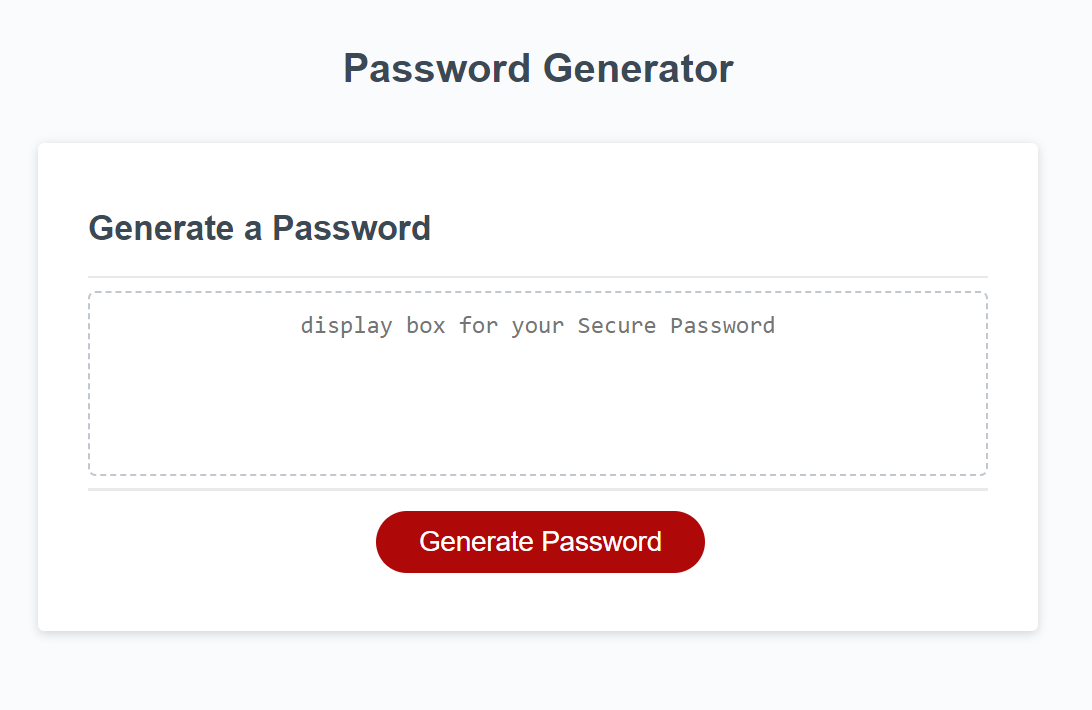
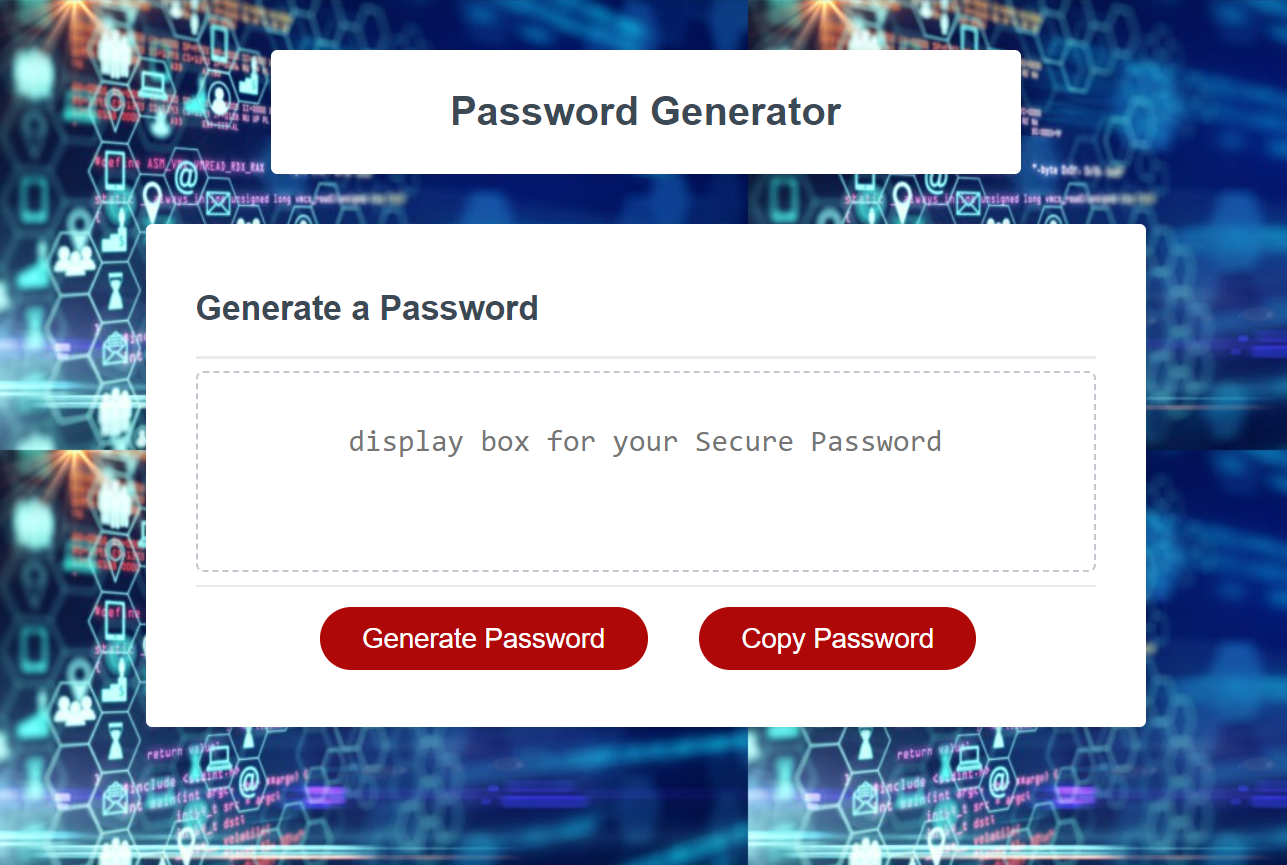
update ReadMe with copy feature, update app screenshot

diff --git a/README.md b/README.md
@@ -1,11 +1,12 @@
-# Module 3 Challenge: Password generator
+# Module 3 Challenge: Password Generator
 
 ## Overview:
 * Developer: Donna Thompson
-* Challenge type: Refactoring starter code for a Password Generator
+* Challenge type: Enhancing starter code for a Password Generator
 * The Password Generator enables users to generate random passwords based on criteria that they’ve selected. 
-* The user can choose the length of the password. The length must be 8 - 128 chars.
-* The user can choose whether the password can include lowercase, uppercase, numeric, and/or special characters. At least 1 character type must be chosen, or the app will alert the user that none were chosen and the default of lowercase, uppercase, and numeric will be used.
+* The user can choose the length of the password. The length must be 8 - 128 chars and will be validated.
+* The user can choose whether the password can include lowercase, uppercase, numeric, and/or special characters. At least 1 character type must be chosen, and will be validated.
+* The user can copy the generated password to the clipboard using a "Copy Password" button
 * This app will run in the browser with dynamically updated HTML and CSS powered by JavaScript code. 
 * The UI will adapt to multiple screen sizes.
 
